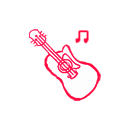
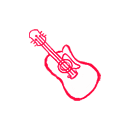
攻击意图图片

Changed region(s): [[0.5625, 0.2188, 0.7188, 0.3438]]

diff --git a/BasicMod-master/src/main/java/tomorimod/monsters/taki/RanaMonster.java b/BasicMod-master/src/main/java/tomorimod/monsters/taki/RanaMonster.java
@@ -3,6 +3,7 @@ package tomorimod.monsters.taki;
 import basemod.animations.AbstractAnimation;
 import com.badlogic.gdx.Gdx;
 import com.badlogic.gdx.graphics.Color;
+import com.badlogic.gdx.graphics.Texture;
 import com.badlogic.gdx.graphics.g2d.SpriteBatch;
 import com.evacipated.cardcrawl.modthespire.lib.SpireOverride;
 import com.megacrit.cardcrawl.actions.AbstractGameAction;
@@ -142,12 +143,26 @@ public class RanaMonster extends BaseMonster {
 
     }
 
+    @Override
+    protected Texture getAttackIntent() {
+        //super.getAttackIntent();
+        if(takiMonster!=null&&!takiMonster.isDeadOrEscaped()){
+            return new Texture(imagePath("monsters/intents/attack_guitar_normal.png"));
+        }else{
+            return new Texture(imagePath("monsters/intents/attack_guitar_heavy.png"));
+        }
+    }
+
 //    @Override
 //    protected Texture getAttackIntent() {
 //        super.getAttackIntent();
-//
+//        if(isAllHave||isThree||isAllSame){
+//            return new Texture(imagePath("monsters/intents/attack_rhythm_guitar_heavy.png"));
+//        }
+//        return new Texture(imagePath("monsters/intents/attack_rhythm_guitar_normal.png"));
 //
 //    }
+
 
 
     @Override
@@ -208,7 +223,7 @@ public class RanaMonster extends BaseMonster {
     public void die() {
         super.die();
 
-        if (this.currentHealth <= 0) {
+        if (this.currentHealth <= 0&&takiMonster.isDeadOrEscaped()) {
             useFastShakeAnimation(5.0F);
             CardCrawlGame.screenShake.rumble(4.0F);
             onBossVictoryLogic();

diff --git a/BasicMod-master/src/main/java/tomorimod/cards/test/Test.java b/BasicMod-master/src/main/java/tomorimod/cards/test/Test.java
@@ -1,0 +1,45 @@
+package tomorimod.cards.test;
+
+import com.megacrit.cardcrawl.actions.AbstractGameAction;
+import com.megacrit.cardcrawl.actions.common.DamageAction;
+import com.megacrit.cardcrawl.cards.AbstractCard;
+import com.megacrit.cardcrawl.cards.DamageInfo;
+import com.megacrit.cardcrawl.characters.AbstractPlayer;
+import com.megacrit.cardcrawl.monsters.AbstractMonster;
+import tomorimod.cards.BaseCard;
+import tomorimod.cards.special.SpecialCard;
+import tomorimod.character.Tomori;
+import tomorimod.util.CardStats;
+
+public class Test extends BaseCard implements SpecialCard {
+    public static final String ID = makeID(Test.class.getSimpleName());
+    private static final CardStats info = new CardStats(
+            Tomori.Meta.CARD_COLOR,
+            CardType.ATTACK,
+            CardRarity.BASIC,
+            CardTarget.ENEMY,
+            1
+    );
+
+    private static final int DAMAGE = 9999;
+    private static final int UPG_DAMAGE = 3;
+
+    public Test() {
+        super(ID, info);
+
+        setDamage(DAMAGE, UPG_DAMAGE);
+
+        tags.add(CardTags.STARTER_STRIKE);
+        tags.add(CardTags.STRIKE);
+    }
+
+    @Override
+    public void use(AbstractPlayer p, AbstractMonster m) {
+        addToBot(new DamageAction(m, new DamageInfo(p, damage, DamageInfo.DamageType.NORMAL), AbstractGameAction.AttackEffect.SLASH_VERTICAL));
+    }
+
+    @Override
+    public AbstractCard makeCopy() { //Optional
+        return new Test();
+    }
+}

diff --git a/BasicMod-master/src/main/java/tomorimod/cards/customcards/Compete.java b/BasicMod-master/src/main/java/tomorimod/cards/customcards/Compete.java
@@ -4,6 +4,7 @@ import com.megacrit.cardcrawl.actions.common.ApplyPowerAction;
 import com.megacrit.cardcrawl.actions.common.RemoveSpecificPowerAction;
 import com.megacrit.cardcrawl.cards.AbstractCard;
 import com.megacrit.cardcrawl.characters.AbstractPlayer;
+import com.megacrit.cardcrawl.core.CardCrawlGame;
 import com.megacrit.cardcrawl.dungeons.AbstractDungeon;
 import com.megacrit.cardcrawl.monsters.AbstractMonster;
 import tomorimod.cards.BaseCard;
@@ -24,7 +25,7 @@ public class Compete extends BaseCard {
     );
 
     private final int MAGIC=2;
-    private final int UPG_MAGIC=1;
+    private final int UPG_MAGIC=0;
 
     public Compete() {
         super(ID, info);
@@ -46,5 +47,23 @@ public class Compete extends BaseCard {
     @Override
     public AbstractCard makeCopy() {
         return new Compete();
+    }
+
+    @Override
+    public void upgrade(){
+        if(!upgraded){
+            upgradeName();
+            updateDescription();
+            isInnate=true;
+        }
+    }
+
+    public void updateDescription(){
+        if(upgraded){
+            rawDescription = CardCrawlGame.languagePack.getCardStrings(ID).EXTENDED_DESCRIPTION[0];
+        }else{
+            rawDescription = CardCrawlGame.languagePack.getCardStrings(ID).DESCRIPTION;
+        }
+        initializeDescription();
     }
 }

diff --git a/BasicMod-master/src/main/java/tomorimod/monsters/taki/TakiMonster.java b/BasicMod-master/src/main/java/tomorimod/monsters/taki/TakiMonster.java
@@ -1,5 +1,6 @@
 package tomorimod.monsters.taki;
 
+import com.badlogic.gdx.graphics.Texture;
 import com.megacrit.cardcrawl.actions.AbstractGameAction;
 import com.megacrit.cardcrawl.actions.animations.VFXAction;
 import com.megacrit.cardcrawl.actions.common.*;
@@ -91,12 +92,15 @@ public class TakiMonster extends BaseMonster {
     }
 
 
-//    @Override
-//    protected Texture getAttackIntent() {
-//        super.getAttackIntent();
-//
-//
-//    }
+    @Override
+    protected Texture getAttackIntent() {
+        //super.getAttackIntent();
+        if(ranaMonster!=null&&!ranaMonster.isDeadOrEscaped()){
+            return new Texture(imagePath("monsters/intents/attack_drum_normal.png"));
+        }else{
+            return new Texture(imagePath("monsters/intents/attack_drum_heavy.png"));
+        }
+    }
 
     private final int BLOCK=20;
 
@@ -164,7 +168,7 @@ public class TakiMonster extends BaseMonster {
     public void die() {
         super.die();
 
-        if (this.currentHealth <= 0) {
+        if (this.currentHealth <= 0&&ranaMonster.isDeadOrEscaped()) {
             useFastShakeAnimation(5.0F);
             CardCrawlGame.screenShake.rumble(4.0F);
             onBossVictoryLogic();

diff --git a/BasicMod-master/src/main/java/tomorimod/monsters/anon/AnonMonster.java b/BasicMod-master/src/main/java/tomorimod/monsters/anon/AnonMonster.java
@@ -100,11 +100,11 @@ public class AnonMonster extends BaseMonster {
 
     @Override
     protected Texture getAttackIntent() {
-        super.getAttackIntent();
+        //super.getAttackIntent();
         if(isAllHave||isThree||isAllSame){
-            return new Texture(imagePath("monsters/intents/attack_guitar_heavy.png"));
+            return new Texture(imagePath("monsters/intents/attack_rhythm_guitar_heavy.png"));
         }
-        return new Texture(imagePath("monsters/intents/attack_guitar_normal.png"));
+        return new Texture(imagePath("monsters/intents/attack_rhythm_guitar_normal.png"));
 
     }
 

diff --git a/BasicMod-master/src/main/java/tomorimod/TomoriMod.java b/BasicMod-master/src/main/java/tomorimod/TomoriMod.java
@@ -51,10 +51,8 @@ import static tomorimod.character.Tomori.Meta.CARD_COLOR;
 
 //TODO 所有对象都判断是否为null
 
-//TODO 特效变革
+//TODO 特效变革，感觉变革可以删了
 //TODO 平衡性调整
-//TODO 上传工坊
-//TODO 击败具有对邦的敌人获得5点闪耀
 //TODO 削弱认真，我们是mygo每场战斗最多生效3次
 //TODO 变革消耗所有的手牌，获得等量的闪耀
 //TODO 选择X张手牌消耗，然后使剩下的手牌获得保留
